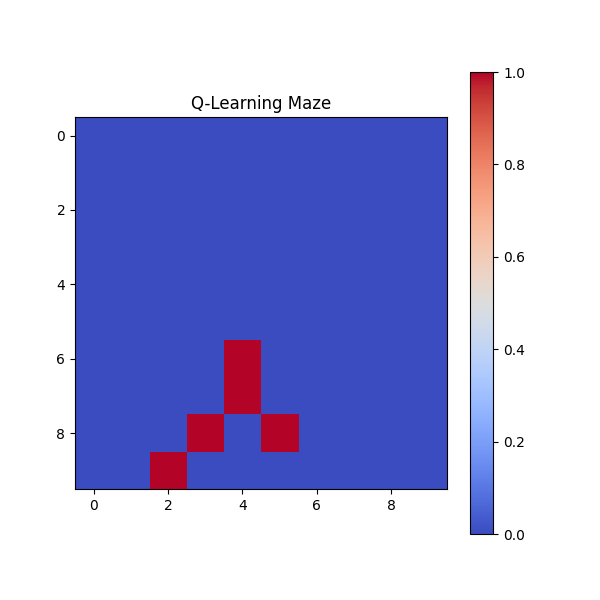
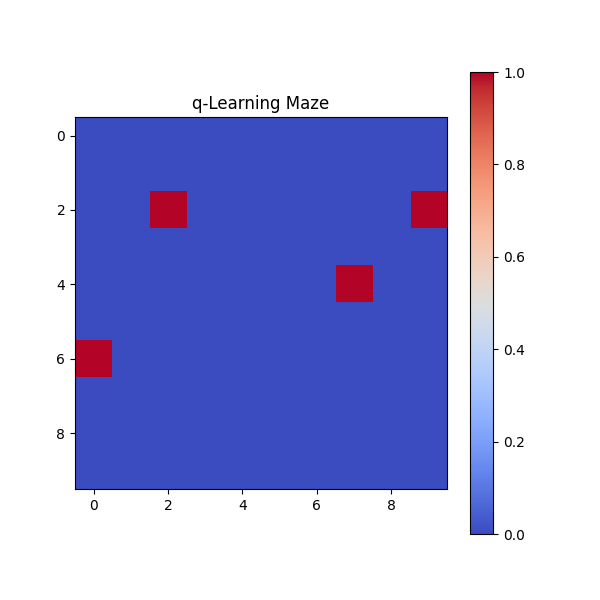
edited task 4 and beginning of 5 and 6

diff --git a/src/tasks/l_system.py b/src/tasks/l_system.py
@@ -1,0 +1,97 @@
+import numpy as np
+import matplotlib.pyplot as plt
+from matplotlib.axes import Axes
+from src.utils.neural_helpers import Runnable
+from src.utils.visualization import plot_fractal_paths
+
+
+class LSystem(Runnable):
+    """
+    Generator of fractals using L-systems.
+    """
+
+    def __init__(self, axiom: str = "F", rules: dict = None, angle: float = 90, iterations: int = 3, step_length: float = 1.0):
+        """
+        Initialize L-system parameters.
+
+        :param axiom: Starting string for pattern generation
+        :param rules: Dictionary of replacement rules (key: character, value: replacement string)
+        :param angle: Turning angle in degrees for +/- commands
+        :param iterations: Number of string rewriting iterations
+        :param step_length: Drawing distance for 'F' command
+        """
+        self.axiom = axiom
+        self.rules = rules or {"F": "F+F-F-F+F"}
+        self.angle = np.radians(angle)
+        self.iterations = iterations
+        self.step_length = step_length
+        self.paths = []
+
+    def generate(self):
+        """
+        Generate final command string through iterative rewriting.
+
+        :return: Final string containing drawing commands after all iterations
+        """
+        current = self.axiom
+        for _ in range(self.iterations):
+            current = "".join([self.rules.get(c, c) for c in current])
+        return current
+
+    def _build_paths(self, commands: str):
+        """
+        Convert command string to geometric paths with turtle graphics logic.
+        Handles branching through stack-based state management.
+
+        :param commands: String generated by L-system rules containing drawing commands
+        :return: None
+        """
+        self.paths = []
+        state_stack = []
+        current_path = []
+        x, y, direction = 0.0, 0.0, 0.0  # Initial position and heading
+
+        for cmd in commands:
+            if cmd == "F":
+                new_x = x + self.step_length * np.cos(direction)
+                new_y = y + self.step_length * np.sin(direction)
+                current_path.append([x, y])
+                x, y = new_x, new_y
+            elif cmd == "+":
+                direction += self.angle  # Turn left
+            elif cmd == "-":
+                direction -= self.angle  # Turn right
+            elif cmd == "[":
+                state_stack.append((x, y, direction))  # Push current state
+            elif cmd == "]":
+                if state_stack:
+                    current_path.append([x, y])
+                    self.paths.append(np.array(current_path))
+                    x, y, direction = state_stack.pop()  # Restore previous state
+                    current_path = [[x, y]]
+
+        if current_path:
+            self.paths.append(np.array(current_path))  # Add remaining points after command processing
+
+    def visualize(self, **kwargs):
+        commands = self.generate()
+        self._build_paths(commands)
+        return plot_fractal_paths(self.paths, **kwargs)
+
+    @staticmethod
+    def run():
+        # Příklady různých fraktálů
+        systems = [
+            (LSystem(axiom="F", rules={"F": "F+F-F-F+F"}, angle=90, iterations=3),
+             {"title": "Kochova Křivka", "save": True}),
+
+            (LSystem(axiom="X", rules={"X": "F+[[X]-X]-F[-FX]+X", "F": "FF"}, angle=25, iterations=5),
+             {"title": "Fraktální Strom", "save": True}),
+
+            (LSystem(axiom="F--F--F", rules={"F": "F+F--F+F"}, angle=60, iterations=4),
+             {"title": "Sierpińského Trojúhelník", "save": True})
+        ]
+
+        for system, params in systems:
+            system.visualize(**params)
+            plt.show()

diff --git a/src/tasks/pole_balancing.py b/src/tasks/pole_balancing.py
@@ -1,0 +1,95 @@
+import gym
+import numpy as np
+import matplotlib.pyplot as plt
+from collections import defaultdict
+from tensorflow.keras.models import Sequential
+from tensorflow.keras.layers import Dense
+
+from src.utils.neural_helpers import Runnable
+
+
+# 1. Příprava prostředí
+class BalanceNetwork:
+    """Neuronová síť pro řízení vozíku."""
+
+    def __init__(self, input_size, output_size):
+        self.model = self._build_model(input_size, output_size)
+
+    def _build_model(self, input_size, output_size):
+        """Vytvoří architekturu neuronové sítě."""
+        model = Sequential([
+            Dense(24, activation='relu', input_shape=(input_size,)),
+            Dense(24, activation='relu'),
+            Dense(output_size, activation='linear')
+        ])
+        model.compile(optimizer='adam', loss='mse')
+        return model
+
+    def train(self, X, y, epochs=20):
+        """Provede trénink sítě na vygenerovaných datech."""
+        self.model.fit(X, y, epochs=epochs, batch_size=32, verbose=1)
+
+
+class PoleBalancing(Runnable):
+    """Hlavní třída řešící problém balancování tyče."""
+
+    def __init__(self):
+        self.env = gym.make('CartPole-v1')
+        self.agent = QLearningAgent(self.env)
+        self.nn = BalanceNetwork(input_size=4, output_size=self.env.action_space.n)
+
+    def _generate_training_data(self, samples=10000):
+        """Vygeneruje trénovací data z Q-tabulky."""
+        X, y = [], []
+        for _ in range(samples):
+            state = self.agent.discretize_state(self.env.observation_space.sample())
+            action = np.argmax(self.agent.q_table[state])
+            X.append(state)
+            y.append(action)
+        return np.array(X), np.array(y)
+
+    def _visualize_training(self, rewards):
+        """Vykreslí průběh učení."""
+        plt.figure(figsize=(10, 6))
+        plt.plot(rewards)
+        plt.title("Vývoj odměn během tréninku Q-learning")
+        plt.xlabel("Epizoda")
+        plt.ylabel("Celková odměna")
+        plt.show()
+
+    def _visualize_solution(self):
+        """Animuje finální řešení pomocí neuronové sítě."""
+        for _ in range(3):  # 3 demonstrační epizody
+            obs, _ = self.env.reset()  # Získání pouze pozorování
+            state = obs
+            total_reward = 0
+
+            while True:
+                self.env.render()
+                state_disc = self.agent.discretize_state(state)
+                action = np.argmax(self.nn.model.predict(np.array([state_disc]), verbose=0))
+                obs, reward, done, _, _ = self.env.step(action)
+                state = obs
+                total_reward += reward
+
+                if done:
+                    print(f"Epizoda ukončena s celkovým skóre: {total_reward}")
+                    break
+
+        self.env.close()
+
+    @staticmethod
+    def run():
+        """Hlavní metoda pro spuštění celého pipeline."""
+        task = PoleBalancing()
+
+        # Fáze 1: Trénink Q-learning agenta
+        rewards = task.agent.train(episodes=3000)
+        task._visualize_training(rewards)
+
+        # Fáze 2: Trénink neuronové sítě
+        X, y = task._generate_training_data()
+        task.nn.train(X, y)
+
+        # Fáze 3: Vizualizace výsledků
+        task._visualize_solution()

diff --git a/main.py b/main.py
@@ -5,21 +5,6 @@ from src.utils.neural_helpers import Runnable
 def main():
     try:
         while True:
-            print("\n🚀 Select task:")
-            print(" 1 - Perceptron")
-            print(" 2 - XOR neuron network")
-            print(" 3 - Hopfield network")
-            print(" 4 - Q-learning (Find the Cheese)")
-            print(" 5 - Fractal L-systems")
-            print(" 6 - Fractal geometrics (IFS)")
-            print(" 7 - Mandelbrot Set")
-            print(" 8 - Logistics Chaos")
-            print(" 9 - Double Pendulum")
-            print("10 - Cellular Automata")
-            print(" 0 - Exit")
-
-            choice = input("Enter your choice: ")
-
             scripts: dict[str, type[Runnable]] = {}
 
             def add_runnable_class(name: str, cls: type[Runnable]):
@@ -31,12 +16,21 @@ def main():
             add_runnable_class("2", MLP)
             add_runnable_class("3", HopfieldNetwork)
             add_runnable_class("4", QLearningAgent)
-            # add_runnable_class("5": LSystems)
-            # add_runnable_class("6": IFS)
-            # add_runnable_class("7": MandelbrotSet)
-            # add_runnable_class("8": LogisticsChaos)
-            # add_runnable_class("9": DoublePendulum)
-            # add_runnable_class("10":CellularAutomata)
+            # add_runnable_class("5": PoleBalancing)
+            add_runnable_class("6", LSystem)
+            # add_runnable_class("7": IFS)
+            # add_runnable_class("8": MandelbrotSet)
+            # add_runnable_class("9": LogisticsChaos)
+            # add_runnable_class("10": LogisticsChaos)
+            # add_runnable_class("11": DoublePendulum)
+            # add_runnable_class("12":CellularAutomata)
+
+            print("\n🚀 Select task:")
+            for name, cls in scripts.items():
+                print(f" {name} - {cls.__doc__.strip()}")
+            print(" 0 - Exit")
+
+            choice = input("Enter your choice: ")
 
             if choice == "0":
                 print("Exiting program ...")

diff --git a/src/utils/visualization.py b/src/utils/visualization.py
@@ -127,6 +127,37 @@ def plot_fractal(x: np.ndarray, y: np.ndarray, title: str = "Fractal"):
     plt.show()
 
 
+def plot_fractal_paths(paths: list[np.ndarray], title: str = "Fractal Structure", figsize: tuple[int, int] = (8, 8), save: bool = False) -> tuple[Figure, Axes]:
+    """
+    Draws a complex fractal structures from a list of paths.
+
+    :param paths: List of paths (each path is a numpy array of shape (n, 2))
+    :param title: Title of the plot
+    :param figsize: Size of the figure
+    :param save: If True, saves the plot to a file
+    :return: Tuple (Figure, Axes)
+    """
+    fig, ax = plt.subplots(figsize=figsize)
+
+    line_color = "darkgreen"
+    line_width = 0.5
+
+    for path_fractal in paths:
+        ax.plot(path_fractal[:, 0], path_fractal[:, 1],
+                color=line_color,
+                linewidth=line_width,
+                solid_capstyle='round')
+
+    ax.set_aspect("equal")
+    ax.axis("off")
+    ax.set_title(title)
+
+    if save:
+        save_plot(fig, title.replace(" ", "_"))
+
+    return fig, ax
+
+
 def animate_learning(error_history: list[numbers], title: str = "Error Reduction Over Time", animate_time: float = 1) -> None:
     """
     Animates the training error over time.

diff --git a/src/tasks/q_learn.py b/src/tasks/q_learn.py
@@ -70,18 +70,19 @@ class QLearningAgent(Runnable):
             y = min(self.grid_size[1] - 1, y + 1)
 
         new_state = (x, y)
+        reward = -1 * (abs(x - self.goal[0]) + abs(y - self.goal[1]))  # Penalizing longer paths
         # Define rewards
         if new_state == self.goal:
-            reward = 100  # Big reward for finding the cheese
-        else:
-            reward = -1 * (abs(x - self.goal[0]) + abs(y - self.goal[1]))  # Penalizing longer paths
+            reward = 10000
+        elif self.maze[x, y] == 1:
+            reward = -10000
 
         return new_state, reward
 
     @staticmethod
     def run():
 
-        agent = QLearningAgent(grid_size=(10, 10))
+        agent = QLearningAgent(grid_size=(10, 10), episodes=1000)
 
         visualize_grid(agent.maze, title="q-Learning Maze", save=True)
         visualize_maze(agent.maze, agent.start, agent.goal)

diff --git a/src/utils/data_loader.py b/src/utils/data_loader.py
@@ -54,3 +54,27 @@ def generate_maze(grid_size: tuple[int, int] = (10, 10), num_obstacles: int = 3)
         grid[x, y] = 1
 
     return grid, start, goal
+
+
+def generate_ifs_data(num_points: int = 1000) -> tuple[np.ndarray, np.ndarray]:
+    """
+    Generates data for Iterated Function Systems (IFS).
+
+    :param num_points: Number of points to generate.
+    :return: Tuple (X, y) where X are inputs and y are labels.
+    """
+    # Define the IFS functions
+    functions = [
+        lambda x, y: (0.5 * x, 0.5 * y),
+        lambda x, y: (0.5 * x + 0.5, 0.5 * y),
+        lambda x, y: (0.5 * x + 1, 0.5 * y + 1),
+        lambda x, y: (0.5 * x + 1.5, 0.5 * y + 1)
+    ]
+
+    # Generate points
+    X = np.zeros((num_points, 2))
+    for i in range(num_points):
+        f = np.random.choice(functions)
+        X[i] = f(X[i - 1] if i > 0 else (0, 0))
+
+    return X

diff --git a/src/tasks/iterated_function_systems.py b/src/tasks/iterated_function_systems.py
@@ -1,0 +1,29 @@
+from src.utils.neural_helpers import Runnable
+
+
+class IFS(Runnable):
+    """
+    Iterated Function Systems (IFS) are a method of constructing fractals
+
+    The resulting fractals are often self-similar and can be generated using a set of affine transformations.
+    """
+
+    def __init__(self):
+        """
+        Initialize IFS parameters.
+        """
+        self.transformations = []
+
+    @staticmethod
+    def run():
+        """
+        Run the IFS generator.
+        """
+        from src.utils.data_loader import generate_ifs_data
+        from src.utils.visualization import plot_fractal_paths
+
+        # Generate data for IFS
+        data = generate_ifs_data(num_points=10000)
+
+        # Plot the generated fractal paths
+        plot_fractal_paths(data)

diff --git a/src/tasks/__init__.py b/src/tasks/__init__.py
@@ -2,10 +2,16 @@ from src.tasks.perceptron import Perceptron
 from src.tasks.simple_neural_network import MLP
 from src.tasks.hopfield_network import HopfieldNetwork
 from src.tasks.q_learn import QLearningAgent
+from src.tasks.l_system import LSystem
+from src.tasks.pole_balancing import PoleBalancing
+from src.tasks.iterated_function_systems import IFS
 
 __all__ = [
     "Perceptron",
     "MLP",
     "HopfieldNetwork",
     "QLearningAgent",
+    "LSystem",
+    "PoleBalancing",
+    "IFS",
 ]
